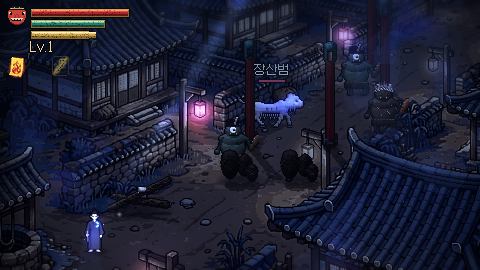
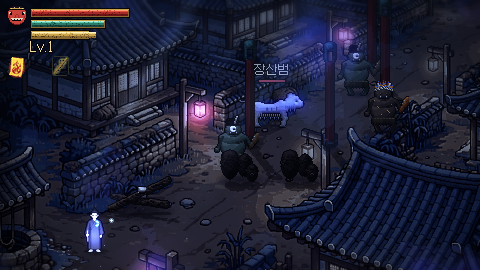
art(hero-glow): 경주·화개 처용 대비 보정(몸 전용광 밝은 맵 보강, he 1.8) + 13맵 재측정·캡처·문서 갱신

diff --git a/production/qa/hero-glow.md b/production/qa/hero-glow.md
@@ -13,7 +13,7 @@
 | 찬 오라 PointLight2D (월드까지 닿음) energy | 0.55 + 1.5·dark_k (최대 2.05) | 0.15 |
 | 〃 texture_scale (반경 = 128·scale px) | 0.55 + 0.3·dark_k (최대 0.85 → 반경 109px, 화면 폭 45%) | 0.4 (반경 51px) |
 | 발밑 림라이트 (따뜻한 색, 바닥) energy / scale | 1.4·dark_k / 0.4 | 제거 |
-| 몸 전용 광원 (신설, light mask 2, 바닥·소품 안 밝힘) | 없음 | energy 1.6·dark_k, scale 0.35 |
+| 몸 전용 광원 (신설, light mask 2, 바닥·소품 안 밝힘) | 없음 | energy 1.8·(dark_k + 1.41·(1−dark_k)), scale 0.35 (밝은 맵일수록 보강) |
 | 달빛 DirectionalLight2D 0.75, CanvasModulate(환경색) | 변경 없음 | 변경 없음 |
 
 비교용: 맵 고정 조명(`levels.gd "lights"`) energy 0.4~1.0·scale 0.4~0.8, 귀화 1.3/0.55, 보스 오라 0.85/2.6(보스전만). 처용 오라(2.05/0.85)가 맵의 어떤 등불보다 강했다.
@@ -43,25 +43,27 @@
 
 | 맵 | 전: halo | 전: 대비 | off: halo | off: 대비 | **후: halo** | **후: 대비** | 후 L_near(전→후) |
 |---|---|---|---|---|---|---|---|
-| beach | 3.73 | 0.03 | 1.59 | −0.28 | **1.68** | **0.14** | 233 → 85 |
-| gyeongju | 2.58 | 0.11 | 1.34 | −0.03 | **1.62** | −0.02 | 131 → 76 |
-| gwana | 3.35 | 0.20 | 0.83 | 0.16 | **0.79** | **0.53** | 131 → 27 |
-| pyega1 | 0.78 | 0.64 | 0.38 | 0.48 | **0.38** | **0.70** | 28 → 13 |
-| pyega2 | 1.08 | 0.60 | 0.61 | 0.42 | **0.67** | **0.62** | 33 → 19 |
-| palace | 2.02 | 0.40 | 1.02 | 0.21 | **1.09** | **0.43** | 77 → 39 |
-| palace(보스전) | 1.55 | 0.40 | 0.93 | 0.21 | **0.91** | **0.35** | 76 → 52 |
-| hwagae | 2.54 | 0.06 | 1.46 | −0.05 | **1.55** | 0.06 | 113 → 66 |
-| jiri_path | 0.95 | 0.32 | 0.79 | 0.23 | **0.83** | 0.28 | 33 → 29 |
-| old_village | 0.66 | 0.61 | 0.35 | 0.47 | **0.40** | **0.62** | 23 → 13 |
-| den1 | 0.98 | 0.62 | 0.47 | 0.45 | **0.47** | **0.68** | 28 → 13 |
-| den2 | 2.46 | 0.31 | 0.88 | 0.16 | **0.94** | **0.44** | 87 → 30 |
-| den3 | 1.10 | 0.60 | 0.68 | 0.46 | **0.69** | **0.65** | 33 → 18 |
+| beach | 3.73 | 0.03 | 1.59 | −0.28 | **1.69** | **0.16** | 233 → 89 |
+| gyeongju | 2.58 | 0.11 | 1.34 | −0.03 | **1.27** | **0.43** | 131 → 61 |
+| gwana | 3.35 | 0.20 | 0.83 | 0.16 | **0.83** | **0.53** | 131 → 30 |
+| pyega1 | 0.78 | 0.64 | 0.38 | 0.48 | **0.47** | **0.70** | 28 → 16 |
+| pyega2 | 1.08 | 0.60 | 0.61 | 0.42 | **0.59** | **0.72** | 33 → 18 |
+| palace | 2.02 | 0.40 | 1.02 | 0.21 | **1.05** | **0.56** | 77 → 38 |
+| palace(보스전) | 1.55 | 0.40 | 0.93 | 0.21 | **0.90** | **0.56** | 76 → 39 |
+| hwagae | 2.54 | 0.06 | 1.46 | −0.05 | **1.52** | **0.44** | 113 → 66 |
+| jiri_path | 0.95 | 0.32 | 0.79 | 0.23 | **0.75** | **0.66** | 33 → 25 |
+| old_village | 0.66 | 0.61 | 0.35 | 0.47 | **0.40** | **0.73** | 23 → 13 |
+| den1 | 0.98 | 0.62 | 0.47 | 0.45 | **0.58** | **0.70** | 28 → 16 |
+| den2 | 2.46 | 0.31 | 0.88 | 0.16 | **0.96** | **0.56** | 87 → 31 |
+| den3 | 1.10 | 0.60 | 0.68 | 0.46 | **0.67** | **0.74** | 33 → 18 |
 
 판독
 - 주변 밝기(halo)가 거의 `off`(처용 빛 없음, 맵 자체)와 같아졌다 — 처용이 만드는 후광은 사실상 0. 가장 심했던 백사장(3.73→1.68, 맵 자체가 1.59), 관아(3.35→0.79), 역신전(2.02→1.09)이 크게 내려갔다. 밝은 맵 주변은 맵 평균보다 눈에 띄게 높지 않다(맵 자체 밝기 수준).
 - 어두운 맵(폐가1·2, 역신전, 도깨비골 굴·마을)에서 처용 대 배경 대비는 전과 같거나 오히려 높다(0.60~0.70 유지, 관아 0.20→0.53, 굴2 0.31→0.44). 보스전은 0.40→0.35로 소폭 낮지만 `off`(0.21)보다 높다.
-- 백사장 처용은 오히려 선명해졌다(전: 후광에 파묻힘, 대비 0.03 → 0.14, `off`는 −0.28로 모래보다 어두움). 경주·화개(황혼, 모래·길이 밝음)는 대비가 낮다(−0.02 / 0.06): 처용 몸전용 광원이 dark_k(0.27)에 비례해 약하게 붙기 때문. 이 두 맵은 광원이 아니라 배경 쪽 밝기 문제라 이번 범위에서는 그대로 둠(필요하면 몸 전용 광원에 하한을 두는 한 줄로 조정 가능).
-- 처용 몸 휘도 자체는 낮아졌다(예: 폐가1 126→72, 역신전 179→97). 사장님 보시기에 "처용이 너무 번쩍임"도 같이 줄었다.
+- 백사장 처용은 오히려 선명해졌다(전: 후광에 파묻힘, 대비 0.03 → 0.16, 광원 끈 상태는 −0.28로 모래보다 어두움).
+- 경주·화개(황혼, 모래·길이 밝음)는 1차 조정에서 대비가 낮았다(−0.02 / 0.06). 몸 전용 광원을 밝은 맵일수록 강하게 보강(`dark_k + 1.41·(1−dark_k)`, he 1.8)해 경주 0.43·화개 0.44(목표 0.25 이상)로 올렸다. 몸에만 닿는 빛이라 주변 밝기(halo)는 그대로(경주 1.28, 화개 1.52, 광원 끈 상태 1.34/1.46).
+- 처용 몸 밝기 자체는 전보다 낮다(폐가1 126→91, 역신전 179→136).
+- 측정 노이즈: 백사장은 물결 애니메이션 때문에 같은 설정에서도 대비가 ±0.05 흔들린다(0.10~0.20 측정).
 
 ## 4. 챕터2 영향
 광원 코드가 맵 공통이라 hwagae·jiri_path·old_village·den1~3 에도 같은 변경이 적용된다. 위 표대로 전부 halo 가 `off` 수준이고 어두운 굴·마을은 대비 유지/상승. 에셋·데이터 무변경.
